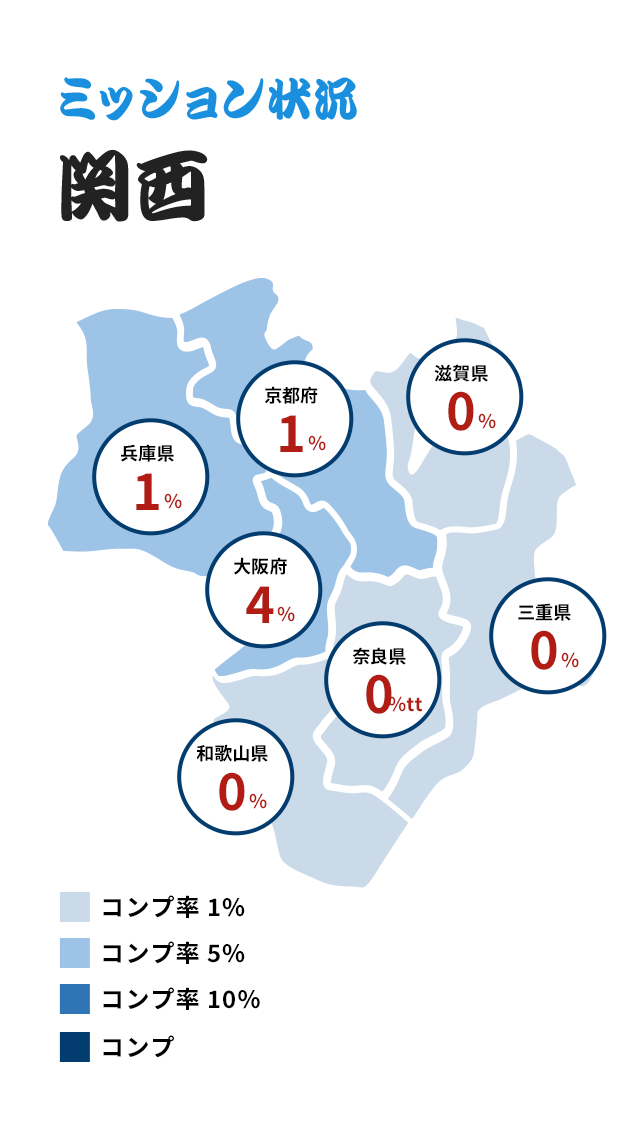
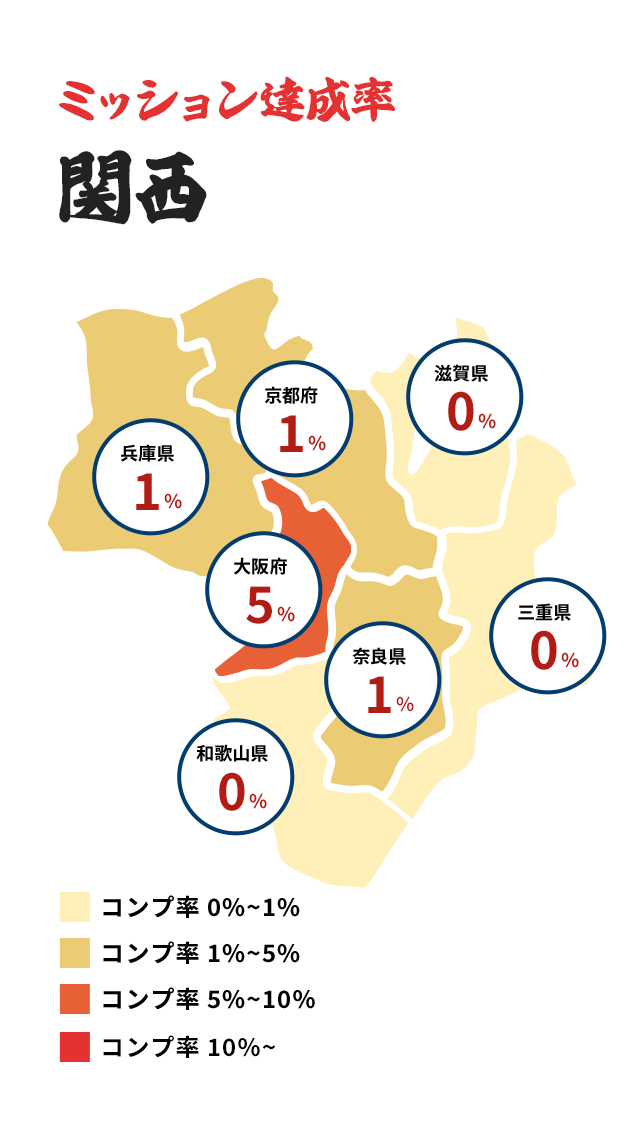
コンプ地図を暖色系に更新

diff --git a/docs/assets/css/add2.css b/docs/assets/css/add2.css
@@ -623,7 +623,7 @@ kanya_notes
   }
 }
 #ev_mission .comment {
-  background-color: #198fde;
+  background-color: #E86035;
   color: #fff;
   display: inline-block;
   border-radius: 16px;
